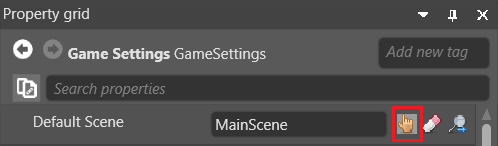
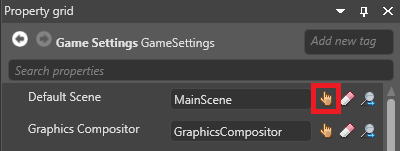
[Game Studio] graphics compositor settings

diff --git a/manual/graphics/graphics-compositor/index.md b/manual/graphics/graphics-compositor/index.md
@@ -21,6 +21,10 @@ The **graphics compositor** organizes how a [scene](../game-studio/scenes.md) is
 - clear a render target or clear only the depth buffer (eg to always render on top of a render target in a FPS game, or render the UI)
 - manipulate the compositor from scripts (or any animation system) in the scene to modify the composition, enable effects, etc
 
+## Create a graphics compositor
+
+
+
 ## Set the graphics compositor
 
 You can have multiple graphics compositors in your project, but you can only use one compositor at a time. At runtime, Xenko uses the graphics compositor you specify in [Game Settings](media/game-studio/game-settings.md).
@@ -70,8 +74,6 @@ You can repeat steps 1 and 2 to add as many steps as you need. To remove a step,
 
 The **Forward Renderer** node controls the additional effects applied to the inputs. 
 
-
-
 ## Camera slots
 
 **Camera slots** link the graphics compositor to the camera entities in your scene. This means you can change the root scene or graphics compositor without having to assign new cameras each time. You can create as many camera slots as you need.
@@ -103,7 +105,7 @@ To name a camera slot, double-click it in the list and type a new name.
 The graphics compositor matches enabled cameras to their appropriate slots each frame.
 
 > [!Note]
-> If multiple enabled cameras in your scene use the same camera slot, the result is undefined. Future versions of Xenko will have a priority system or similar to avoid this.
+> If multiple enabled cameras in your scene use the same camera slot, the result is undefined.
 
 ## Render stage
 

diff --git a/manual/game-studio/game-settings.md b/manual/game-studio/game-settings.md
@@ -36,6 +36,22 @@ To set the default scene:
 
 For more information about scenes, see [Manage scenes](../game-studio/manage-scenes.md).
 
+## Graphics compositor
+
+You can have multiple graphics compositors in your project, but you can only use one at a time. 
+
+To set the graphics compositor:
+
+1. In the **GameSettings** properties, next to **Graphics compositor**, click the **Asset picker** button.
+    
+    ![Set default scene](media/game-settings-graphics-compositor.png)
+
+    The **asset picker** opens.
+
+2. Select the graphics compositor in the asset picker and click **OK**.
+
+For more information, see [Graphics compositor](../graphics/graphics-compositor/index.md).
+
 ## Splash screen
 
 The **splash screen** is displayed when your game starts. The default is the Xenko splash screen.
